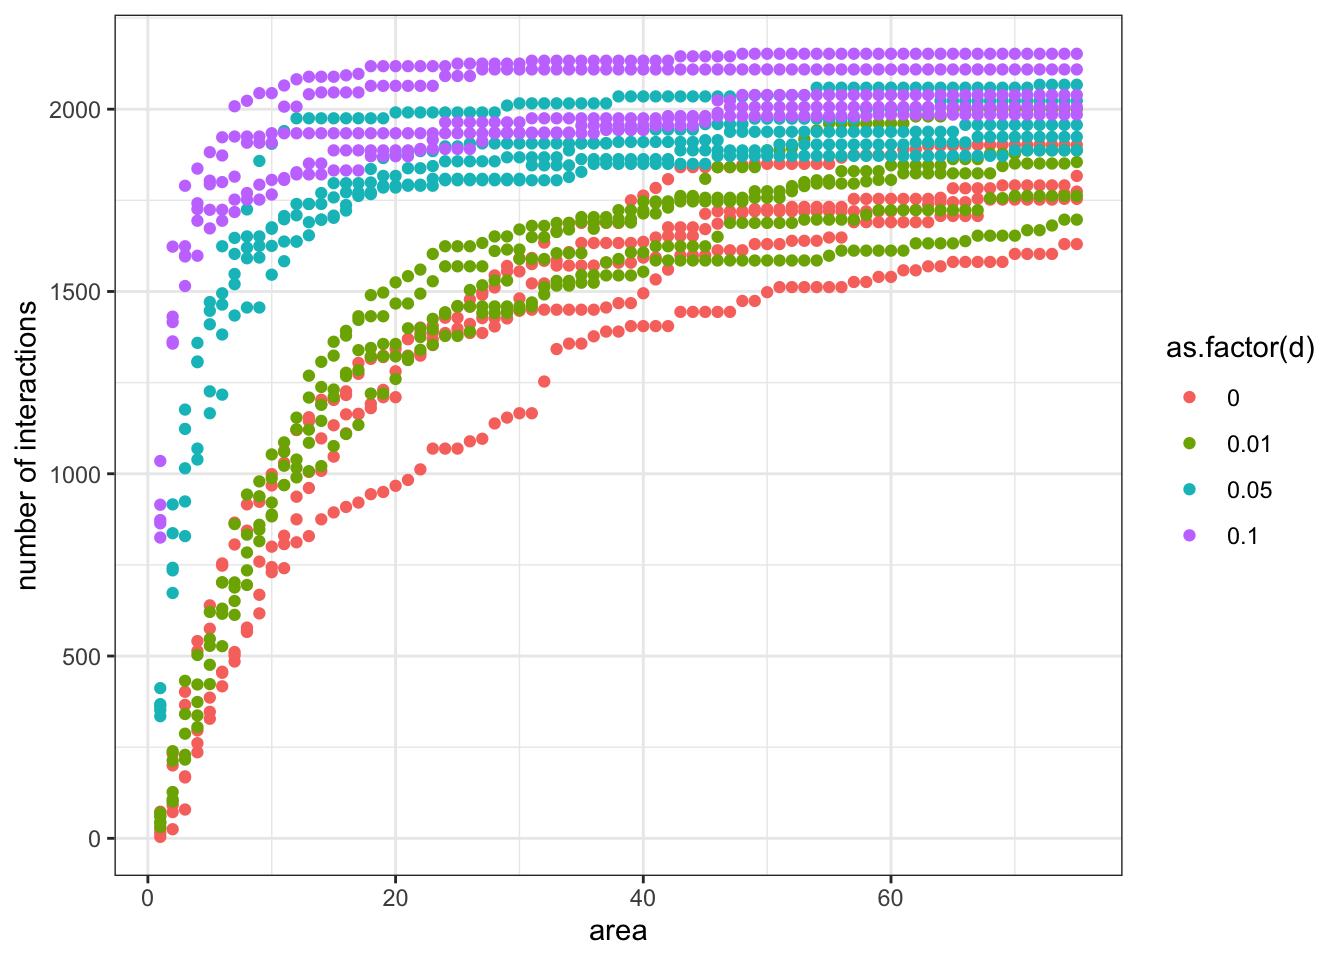
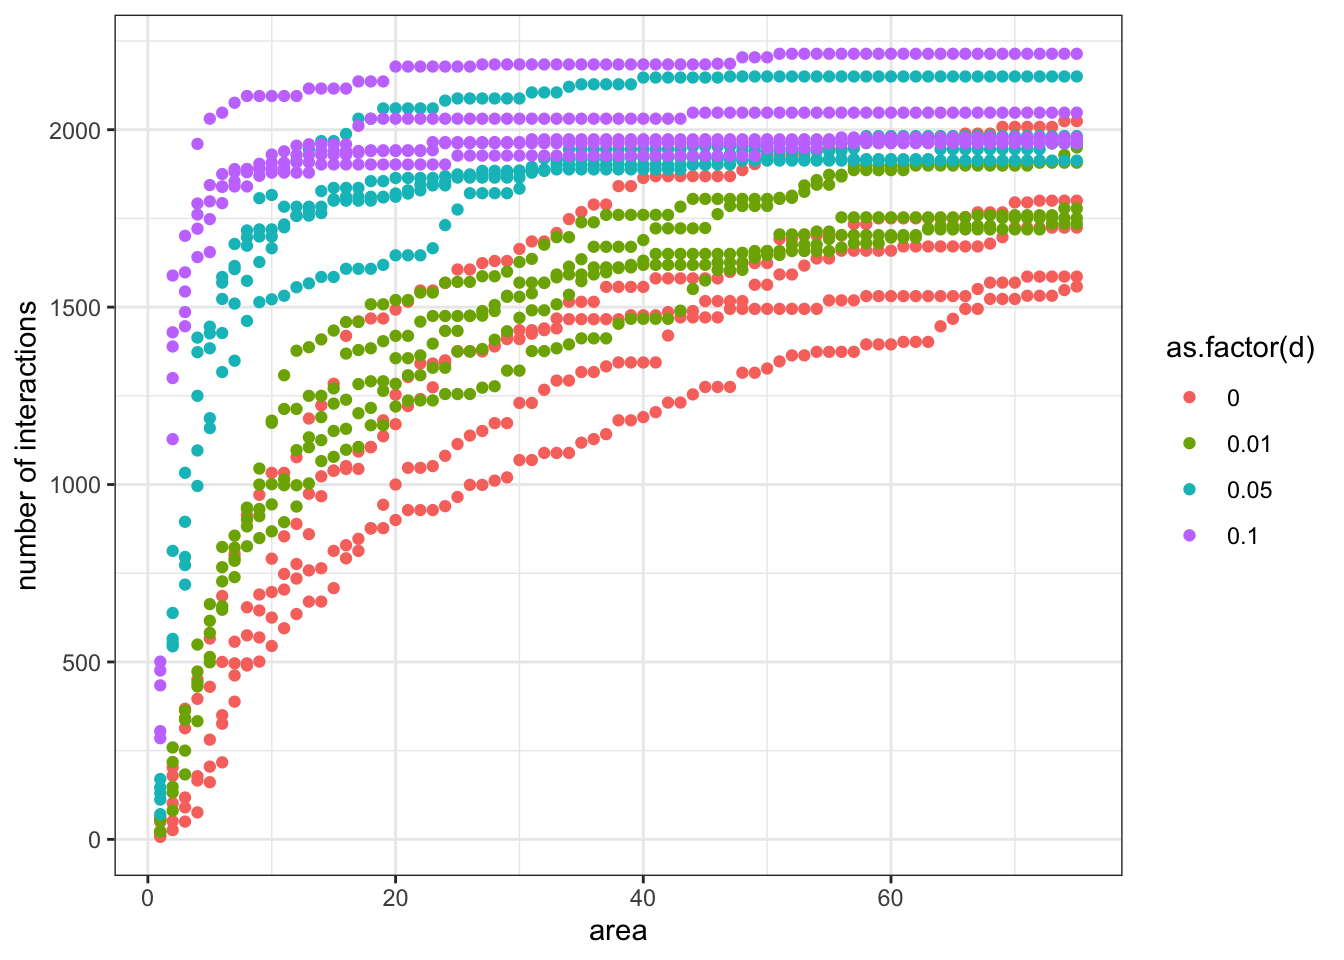
re-compile lesson 3

Changed region(s): [[0.0312, 0.0312, 0.8125, 0.875], [0.0312, 0.2812, 0.0938, 0.3438], [0.0312, 0.0938, 0.0938, 0.1562]]

diff --git a/lesson-3.html b/lesson-3.html
@@ -272,8 +272,8 @@ law</strong>!</p>
 <center>
 <p><img src="lesson-images/sar-west-indies.png" width="500" /></p>
 </center>
-<p><strong>Species-area relationship of showing bird species richness as
-a function of island size in the West Indies.</strong> Image taken from
+<p><strong>Species-area relationship showing bird species richness as a
+function of island size in the West Indies.</strong> Image taken from
 Preston, FW (1962) <em>The canonical distribution of commonness and
 rarity: Part I</em>. <strong><em>Ecology</em></strong>. 43:2,
 185-215.</p>
@@ -302,9 +302,10 @@ the value of 0.25. The existence of this canonical value suggests
 profound general principles of community richness, and makes it a
 powerful predictive tool that has been used ever since in biodiversity
 conservation and studies of extinction during biotic collapse. The value
-of <em>c</em> and its universality is more debated (see <a
+of <em>c</em> and its universality is a highly debated topic in ecology
+(see <a
 href="http://ecflora.cavehill.uwi.edu/bio_courses/ECOL2453/pdfs/species%20area%20relationship.pdf">Lomolino’s
-account</a> for a nice discussion of the topic).</p>
+account</a> for a nice discussion).</p>
 </div>
 <div id="the-theory-of-island-biogeography" class="section level2">
 <h2>2.2- The Theory of Island Biogeography</h2>
@@ -532,7 +533,8 @@ metapopulation but involving many species that might be interacting.</p>
 <center>
 <strong>The four paradigms of metacommunity theory for two competing
 species.</strong> (a) patch-dynamics, (b) species sorting, (c) mass
-effects, and (d) neutral . Image taken from Leibold, MA (2004).
+effects, and (d) neutral . Image taken from Leibold, MA et
+al. <strong><em>Ecology Letters</em></strong> (2004).
 </center>
 <p><br></p>
 <p>In 2004, Leibold and colleagues, proposed a way of thinking about
@@ -688,6 +690,7 @@ for(e in extinction){
 }
 
 ggplot(output, aes(ratio, links)) + geom_point() + theme_bw() + xlab(&#39;c-e ratio&#39;) + ylab(&#39;number of interactions&#39;) </code></pre>
+<p><img src="lesson-3_files/figure-html/trophic-biogeography-1.png" width="60%" style="display: block; margin: auto;" /></p>
 <p>On the x-axis we plot the ratio between colonisation and extinction
 as a proxy for the area sampled. Islands with bigger areas have a higher
 colonisation relative to extinction rates and hence higher chances of
@@ -720,8 +723,9 @@ islands &lt;- 75
 
 # here we create a random network of connected patches (the landscape), with a probability of connectivity between any two local patches of 0.3. This will determine our metacommunity structure
 metacomm &lt;- space(islands, 0.3)
-landscape &lt;- metacomm[[2]]
-landscape[landscape &gt; 0] &lt;- 1
+landscape &lt;- metacomm[[2]]</code></pre>
+<p><img src="lesson-3_files/figure-html/metacom-model-1.png" width="60%" style="display: block; margin: auto;" /></p>
+<pre class="r"><code>landscape[landscape &gt; 0] &lt;- 1
 XY &lt;- metacomm[[1]]
 
 #parameters
@@ -875,6 +879,7 @@ for(d in dispersals){
 }
 
 ggplot(output, aes(area, links, colour=as.factor(d))) + geom_point() + theme_bw() + xlab(&#39;area&#39;) + ylab(&#39;number of interactions&#39;)</code></pre>
+<p><img src="lesson-3_files/figure-html/metacom-model-2.png" width="60%" style="display: block; margin: auto;" /></p>
 <p>What do you think about the outcomes of both models? Any
 resemblances? One clear thing is that dispersal seems to homogenise
 communities across spatial scales. Under relatively high levels of

diff --git a/lesson-5.html b/lesson-5.html
@@ -829,10 +829,7 @@ interaction and parameter values manipulation.</p>
 <a
 href="http://www.netlogoweb.org/launch#http://www.netlogoweb.org/assets/modelslib/Sample%20Models/Biology/Virus.nlogo">this
 URL</a>.</p>
-<iframe style="width:900px; height:900px;" src="https://www.netlogoweb.org/launch#https://www.netlogoweb.org/assets/modelslib/Sample%20Models/Biology/Virus.nlogo" data-external="1">
-<p>
-Your browser does not support iframes
-</p>
+<iframe src="https://www.netlogoweb.org/launch">
 </iframe>
 </div>
 <div
